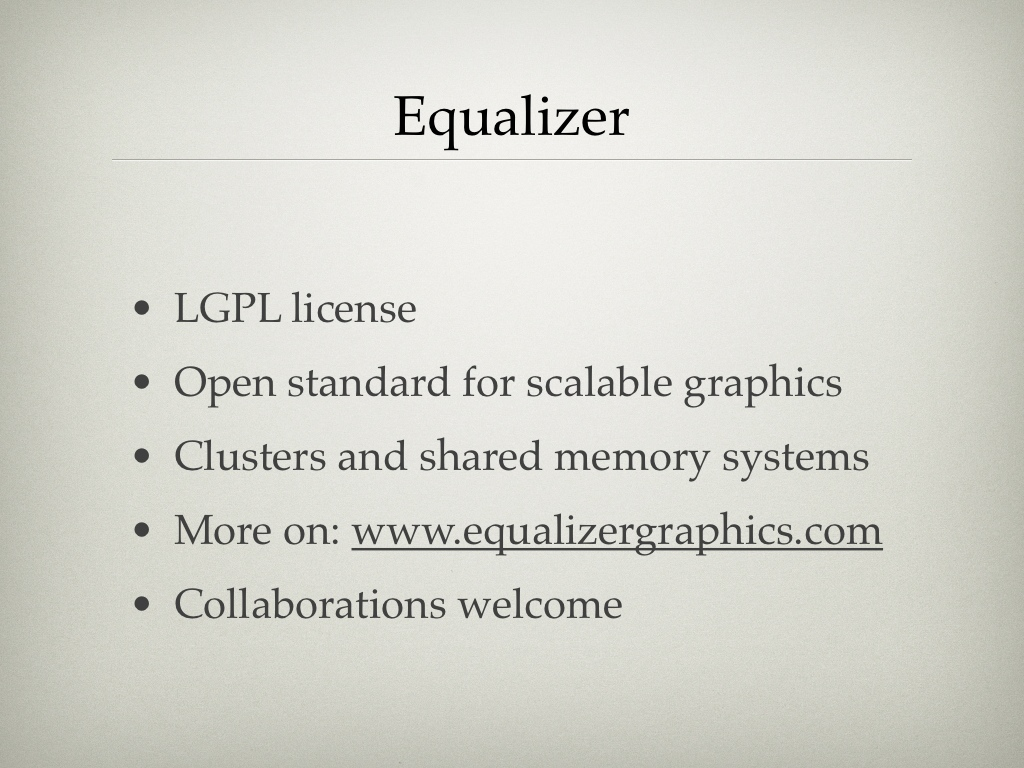
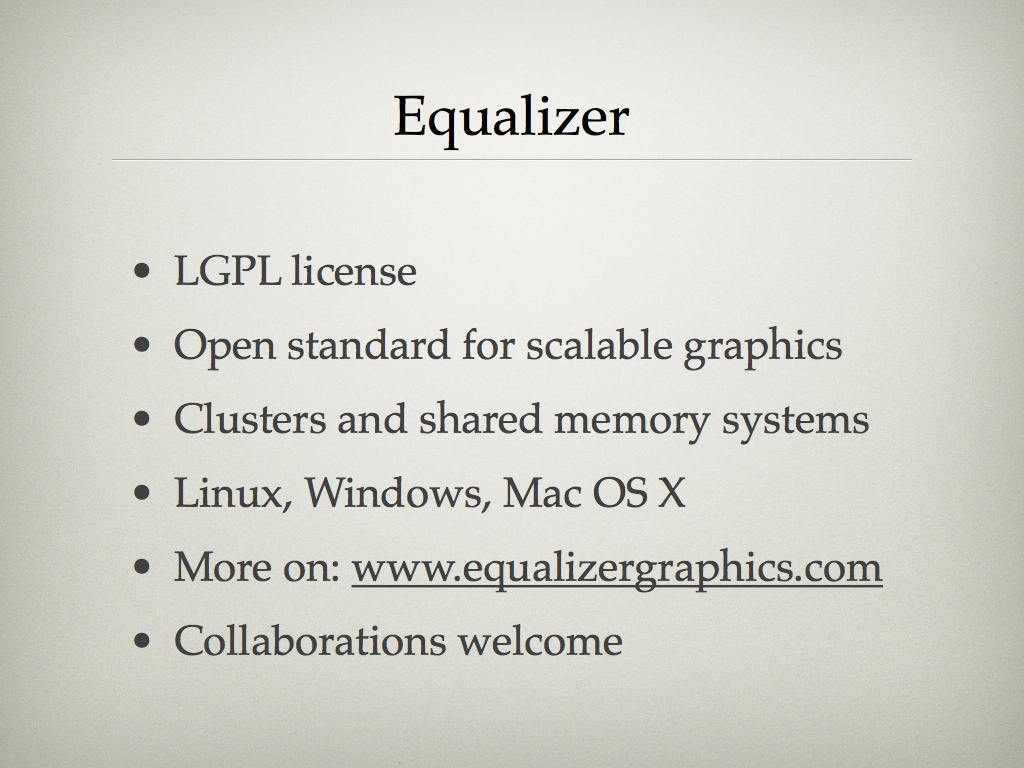
Update teaser presentation

Changed region(s): [[0.125, 0.3125, 0.875, 0.875], [0.375, 0.125, 0.625, 0.1875]]

diff --git a/documents/EqualizerTeaser.html b/documents/EqualizerTeaser.html
@@ -2,7 +2,7 @@
 <!DOCTYPE html PUBLIC "-//W3C//DTD XHTML 1.0 Transitional//EN" "http://www.w3.org/TR/xhtml1/DTD/xhtml1-transitional.dtd">
 <html>
 <head>
-    <meta name="description" content="Equalizer – Scalable Rendering Build for scalability: Core is a generic, parallel rendering API System-wide resource management Build for integration: Transparent OpenGL™ layer Remote visualization Distributed Scene Graph ‘plug-ins’ Equalizer – Scalable Rendering Sort-first, sort-last, stereo compounds and any combination thereof Any recomposition algorithm, e.g., binary swap or direct send Swap synchronization where needed Asynchronous execution Load-balancing planned Equalizer LGPL license Open standard for scalable graphics Clusters and shared memory systems More on: www.equalizergraphics.com Collaborations welcome"/>
+    <meta name="description" content="Equalizer – Scalable Rendering Multipipe rendering framework Multi-Display: planar &amp; curved wall, VR Stereo: active, passive, anaglyphic Scalable Rendering Build for scalability: Core is a generic, parallel rendering API System-wide resource management Equalizer – Scalable Rendering Sort-first, sort-last, stereo compounds and any combination thereof Parallel recomposition, e.g., binary swap or direct send Swap synchronization where needed Asynchronous execution Load-balancing planned Equalizer LGPL license Open standard for scalable graphics Clusters and shared memory systems Linux, Windows, Mac OS X More on: www.equalizergraphics.com Collaborations welcome"/>
     <title></title>
     <script type="text/javascript" language="javascript">
 //      <![CDATA[
